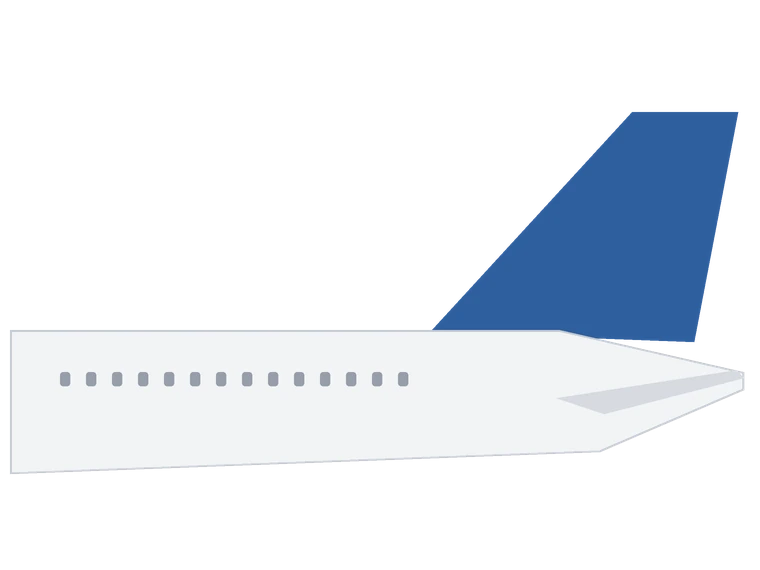
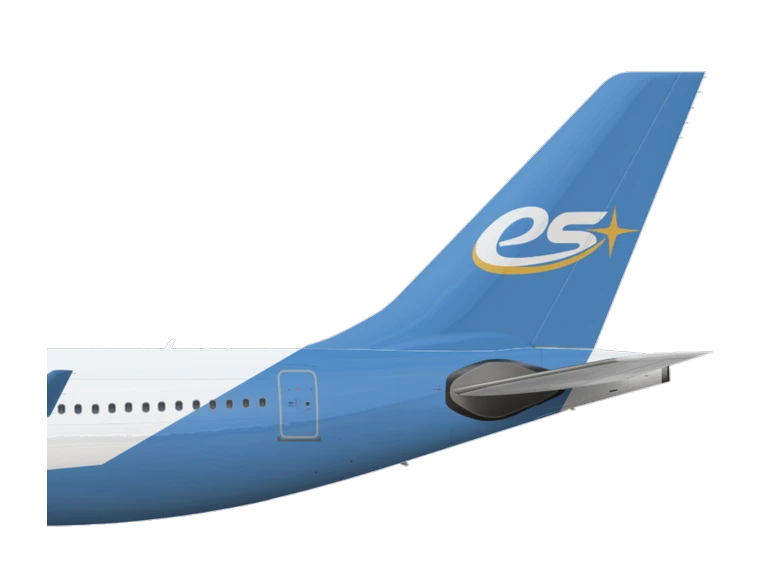
Replace two stand-in liveries and refresh a third with the members' own artwork

Changed region(s): [[0.0, 0.1193, 0.9987, 0.9246], [0.8171, 0.7456, 0.8776, 0.7754]]

diff --git a/assets/js/data.js b/assets/js/data.js
@@ -855,7 +855,7 @@ const MEMBERS = [
   },
   {
     name:'Pacific Sunset Airlines', short:'Pacific Sunset', code:'PS', country:'United States',
-    color:'#011D57', tail:'assets/img/members/pacific-sunset.webp',   // stand-in until the livery arrives
+    color:'#011D57', tail:'assets/img/members/pacific-sunset.webp',
     hubs:['LAX','LHR','GRU','SYD','LGB','HND','SFO','HNL','ANC','CPT','SJU','SEA',
           'OGG','LPA','NRT','PER'], focus:[], joined:2026,
     blurb:'The founder of the Pacific Sunset Group, grown from a Long Beach ' +
@@ -1011,7 +1011,7 @@ const MEMBERS = [
   },
   {
     name:'EuroStar', code:'EU', country:'Belgium',
-    color:'#2F5F9E', tail:'assets/img/members/eurostar.webp',   // stand-in until the livery arrives
+    color:'#2F5F9E', tail:'assets/img/members/eurostar.webp',
     hubs:['BGI','WAW','ATH','LHR'], focus:[], joined:2026,
     blurb:'A full-service carrier headquartered in Brussels, flying from ' +
           'Bridgetown, Warsaw, Athens and London Heathrow since 1987.',

diff --git a/book.html b/book.html
@@ -218,7 +218,7 @@
     </div>
   </div>
 </footer>
-<script src="assets/js/data.js?v=d47319d1"></script>
+<script src="assets/js/data.js?v=53991287"></script>
 <script src="assets/js/site.js?v=f5c7aa89"></script>
 <script src="assets/js/booking.js?v=3150a536"></script>
 <script>

diff --git a/bookings.html b/bookings.html
@@ -121,7 +121,7 @@
     </div>
   </div>
 </footer>
-<script src="assets/js/data.js?v=d47319d1"></script>
+<script src="assets/js/data.js?v=53991287"></script>
 <script src="assets/js/site.js?v=f5c7aa89"></script>
 <script src="assets/js/booking.js?v=3150a536"></script>
 <script>

diff --git a/members.html b/members.html
@@ -120,7 +120,7 @@
     </div>
   </div>
 </footer>
-<script src="assets/js/data.js?v=d47319d1"></script>
+<script src="assets/js/data.js?v=53991287"></script>
 <script src="assets/js/site.js?v=f5c7aa89"></script>
 <script>
   renderMembers(document.getElementById('membersAll'));

diff --git a/index.html b/index.html
@@ -160,7 +160,7 @@
     </div>
   </div>
 </footer>
-<script src="assets/js/data.js?v=d47319d1"></script>
+<script src="assets/js/data.js?v=53991287"></script>
 <script src="assets/js/site.js?v=f5c7aa89"></script>
 <script src="assets/js/land.js?v=6a275796"></script>
 <script>

diff --git a/join.html b/join.html
@@ -167,7 +167,7 @@
     </div>
   </div>
 </footer>
-<script src="assets/js/data.js?v=d47319d1"></script>
+<script src="assets/js/data.js?v=53991287"></script>
 <script src="assets/js/site.js?v=f5c7aa89"></script>
 <script>
   renderJoin(document.getElementById('joinGroups'));

diff --git a/network.html b/network.html
@@ -139,7 +139,7 @@
     </div>
   </div>
 </footer>
-<script src="assets/js/data.js?v=d47319d1"></script>
+<script src="assets/js/data.js?v=53991287"></script>
 <script src="assets/js/site.js?v=f5c7aa89"></script>
 <script src="assets/js/land.js?v=6a275796"></script>
 <script>

diff --git a/news.html b/news.html
@@ -116,7 +116,7 @@
     </div>
   </div>
 </footer>
-<script src="assets/js/data.js?v=d47319d1"></script>
+<script src="assets/js/data.js?v=53991287"></script>
 <script src="assets/js/site.js?v=f5c7aa89"></script>
 <script>
   renderPress(document.getElementById('releases'));

diff --git a/airline-air-siam.html b/airline-air-siam.html
@@ -186,7 +186,7 @@
     </div>
   </div>
 </footer>
-<script src="assets/js/data.js?v=d47319d1"></script>
+<script src="assets/js/data.js?v=53991287"></script>
 <script src="assets/js/site.js?v=f5c7aa89"></script>
 <script>
   document.getElementById('ftMembers').innerHTML =

diff --git a/airline-akerair.html b/airline-akerair.html
@@ -223,7 +223,7 @@
     </div>
   </div>
 </footer>
-<script src="assets/js/data.js?v=d47319d1"></script>
+<script src="assets/js/data.js?v=53991287"></script>
 <script src="assets/js/site.js?v=f5c7aa89"></script>
 <script>
   document.getElementById('ftMembers').innerHTML =

diff --git a/airline-altasib.html b/airline-altasib.html
@@ -202,7 +202,7 @@
     </div>
   </div>
 </footer>
-<script src="assets/js/data.js?v=d47319d1"></script>
+<script src="assets/js/data.js?v=53991287"></script>
 <script src="assets/js/site.js?v=f5c7aa89"></script>
 <script>
   document.getElementById('ftMembers').innerHTML =

diff --git a/airline-caucausair.html b/airline-caucausair.html
@@ -232,7 +232,7 @@
     </div>
   </div>
 </footer>
-<script src="assets/js/data.js?v=d47319d1"></script>
+<script src="assets/js/data.js?v=53991287"></script>
 <script src="assets/js/site.js?v=f5c7aa89"></script>
 <script>
   document.getElementById('ftMembers').innerHTML =
